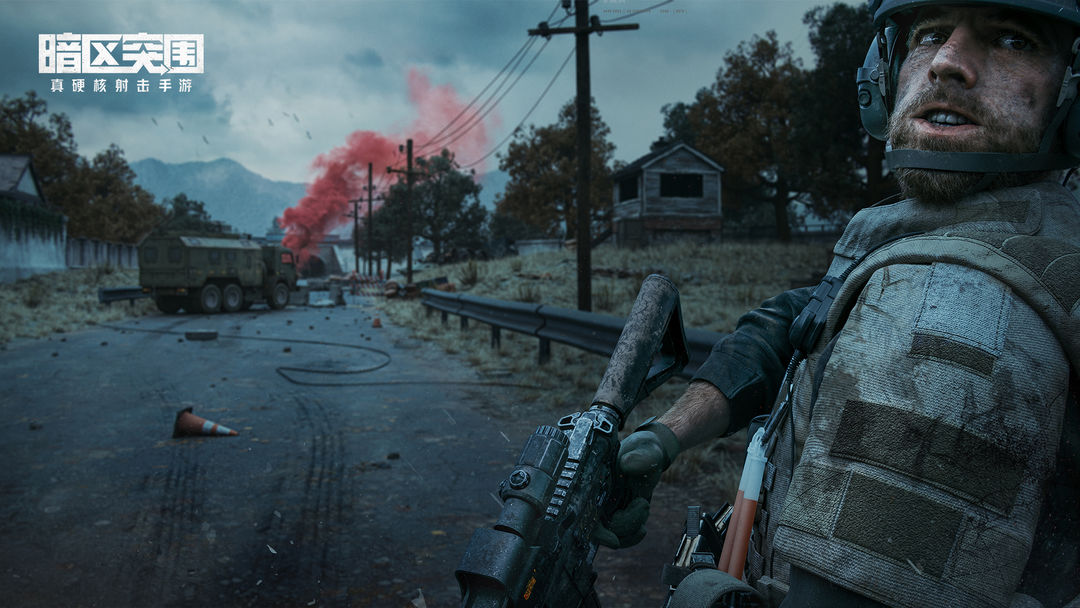
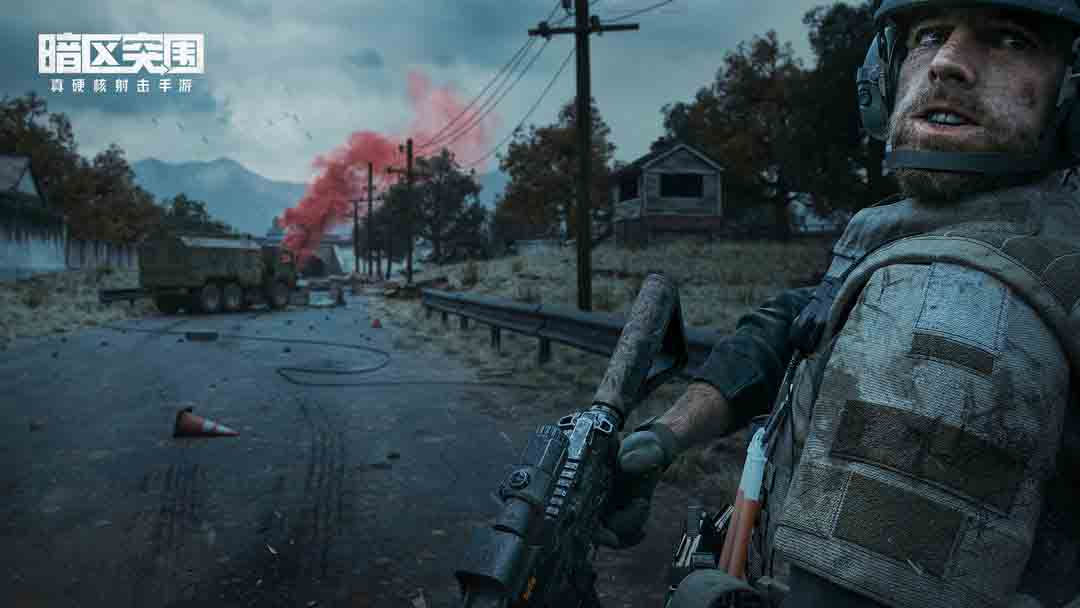
compress all images

diff --git a/index.html b/index.html
@@ -165,7 +165,7 @@
         <div class="row">
           <div class="col-lg-auto ml-auto text-center">
             <a href="https://www.tencent.com/">
-              <p>&nbsp;<img src="img/portfoio/暗区突围01.png" alt="" width="350" height="197" /></p>
+              <p>&nbsp;<img src="img/portfoio/暗区突围01.jpg" alt="" width="350" height="197" /></p>
             </a>
             </div>
           <div class="col-lg-4 mr-auto">
